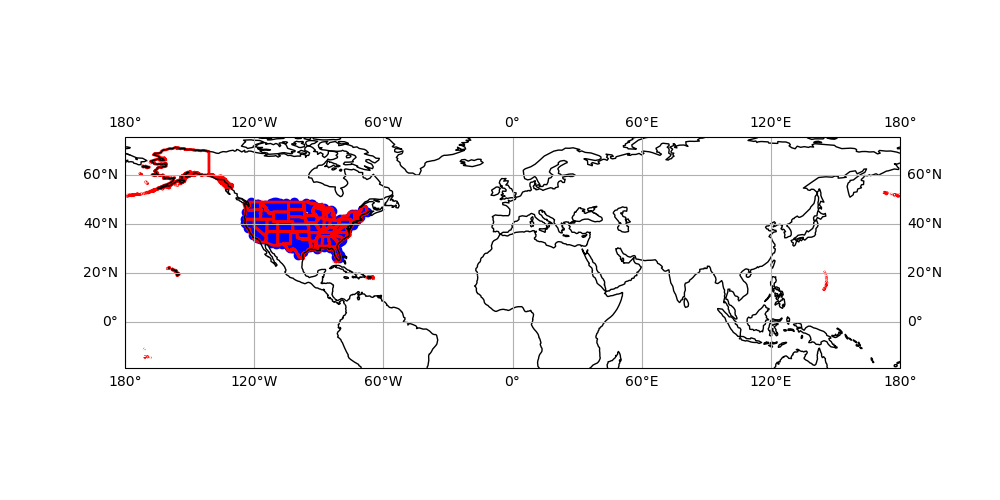
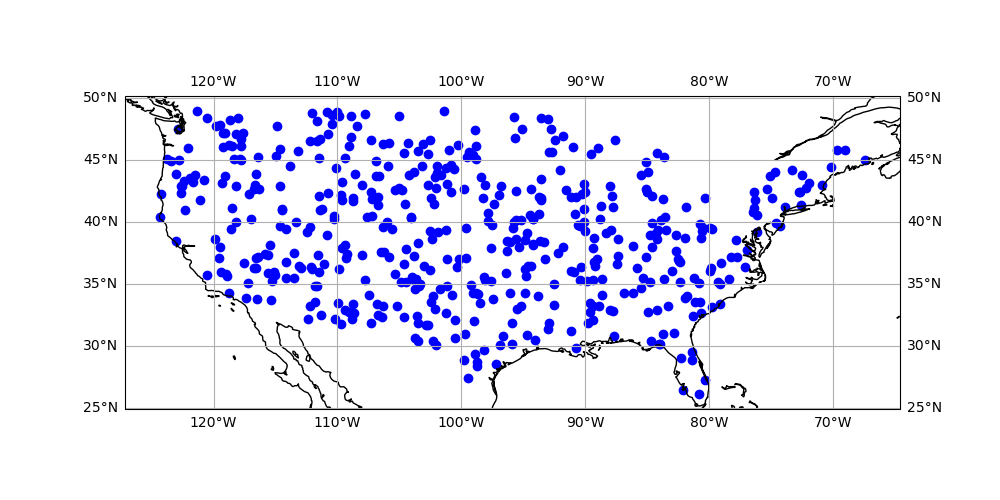
no conus boundary

diff --git a/plot_coordinates.py b/plot_coordinates.py
@@ -6,10 +6,9 @@ import cartopy.crs as ccrs
 # Load the CSV file
 df = pd.read_csv('data/sampled_locations.csv', header=None, names=['idx', 'x', 'y'])
 # gdf = gpd.read_file('data/northeast/ChinaAgriREZone.shp')
-gdf = gpd.read_file('data/conus/cb_2018_us_state_5m.shp')
 
-if gdf.crs.to_string() != 'EPSG:4326':
-    gdf = gdf.to_crs(epsg=4326)
+# if gdf.crs.to_string() != 'EPSG:4326':
+#     gdf = gdf.to_crs(epsg=4326)
 
 
 # Create a figure with an appropriate size
@@ -24,9 +23,7 @@ ax.coastlines()
 
 # Plot the points
 plt.scatter(df['x'], df['y'], color='blue', marker='o', transform=ccrs.Geodetic())
-gdf.plot(ax=ax, facecolor='none', edgecolor='red', linewidth=2)
-
-# gdf.plot(ax=ax, facecolor='none', edgecolor='red', linewidth=2, transform=ccrs.Geodetic())
+# gdf.plot(ax=ax, facecolor='none', edgecolor='red', linewidth=2)
 
 # Add gridlines and labels for readability
 ax.gridlines(draw_labels=True)
